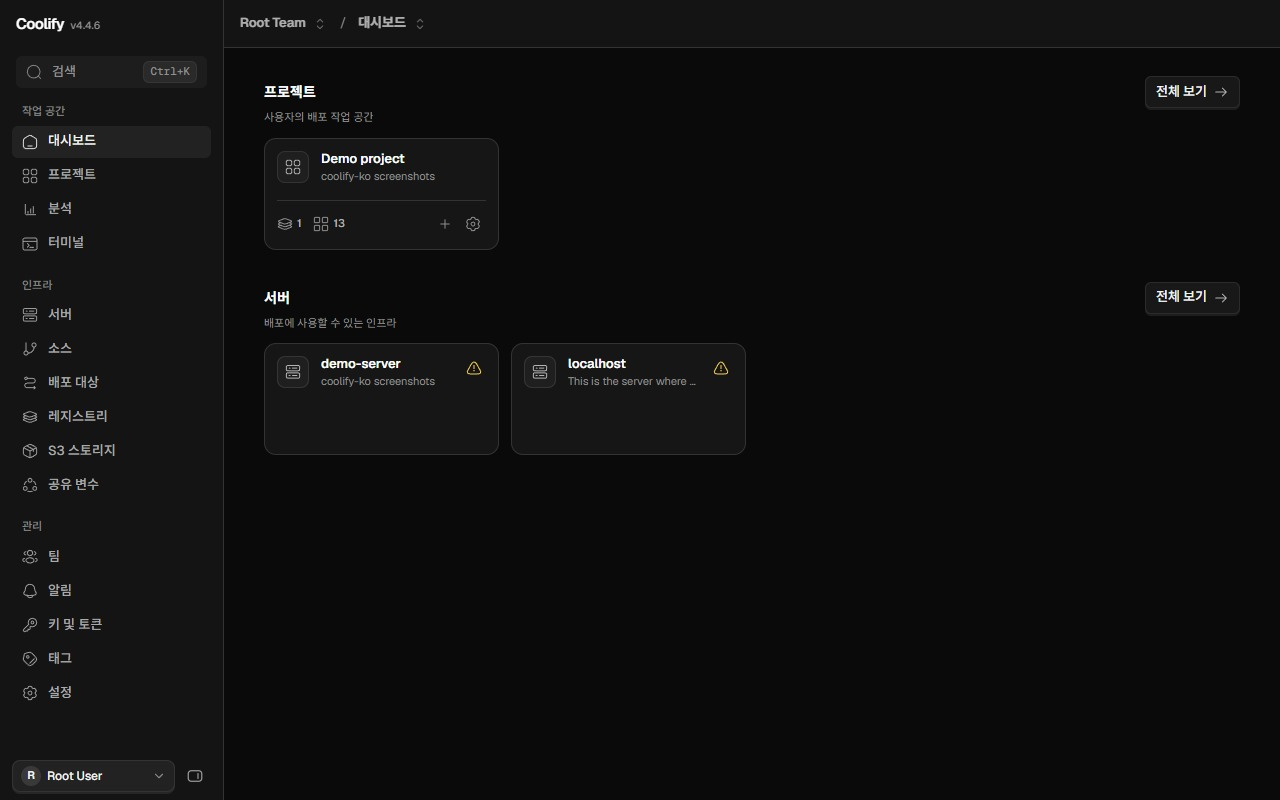
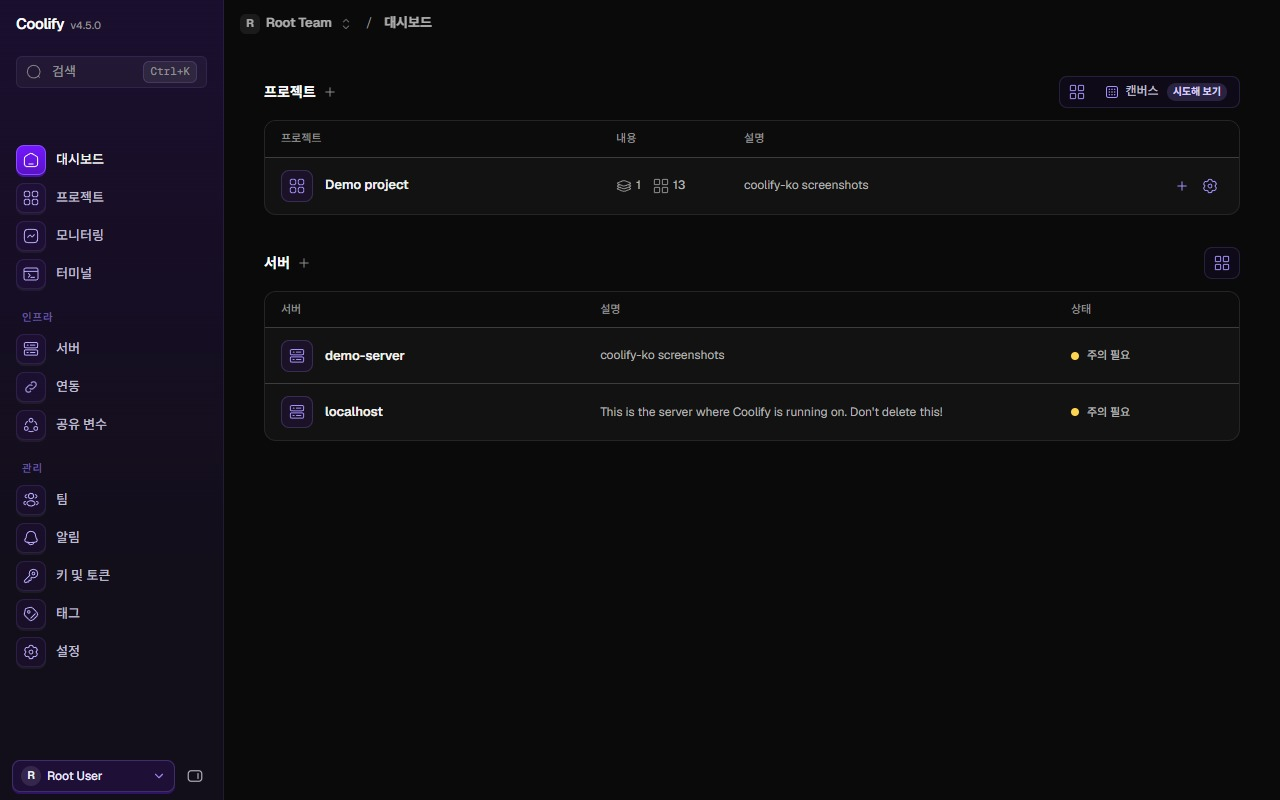
sync: 74a3987ef166

diff --git a/pipeline/src/sync/discord.ts b/pipeline/src/sync/discord.ts
@@ -1,24 +1,57 @@
 import { readFileSync } from 'node:fs';
 
+type Fetcher = (url: string, init?: RequestInit) => Promise<Response>;
+
 const WEBHOOK = /^https:\/\/(?:discord\.com|discordapp\.com)\/api\/webhooks\//;
+const TRIES = 2;
+
+/** 오류 이름·내용·원인 코드만 남기고 주소는 지운다. 이름만 남겨서는 원인을 몰랐다(2026-10-25 "알림 실패: TypeError") */
+function errorSummary(error: unknown): string {
+  if (!(error instanceof Error)) {
+    return '알 수 없음';
+  }
+  const code = (error.cause as { code?: unknown } | undefined)?.code;
+
+  return `${error.name} ${error.message.replace(/https?:\/\/\S+/g, '<주소>').slice(0, 120)}${typeof code === 'string' ? ` (${code})` : ''}`;
+}
 
 /**
  * Discord 웹훅으로 한 줄 알린다. 웹훅 주소는 파일(LoadCredential)에서 읽고 로그에 남기지 않는다.
- * 실패해도 던지지 않는다(알림 때문에 작업이 실패하지 않게). 멘션은 막는다
+ * 네트워크 오류·한도·서버 오류면 한 번 더 보낸다. 실패해도 던지지 않는다(알림 때문에 작업이 실패하지 않게). 멘션은 막는다
  */
-export async function postDiscord(webhookFile: string, content: string): Promise<void> {
+export async function postDiscord(webhookFile: string, content: string, { fetcher = fetch, retryDelayMs = 5_000 }: { readonly fetcher?: Fetcher; readonly retryDelayMs?: number } = {}): Promise<void> {
+  let url: string;
   try {
-    const url = readFileSync(webhookFile, 'utf8').trim();
-    if (!WEBHOOK.test(url)) {
-      console.log('알림 생략: 웹훅 주소 형식이 아닙니다.');
-
-      return;
-    }
-    const response = await fetch(url, { method: 'POST', headers: { 'content-type': 'application/json' }, body: JSON.stringify({ content: content.slice(0, 2000), allowed_mentions: { parse: [] } }), signal: AbortSignal.timeout(10_000) });
-    if (!response.ok) {
-      console.log(`알림 실패: HTTP ${String(response.status)}`);
-    }
+    url = readFileSync(webhookFile, 'utf8').trim();
   } catch (error: unknown) {
-    console.log(`알림 실패: ${error instanceof Error ? error.name : '알 수 없음'}`);
+    console.log(`알림 실패: ${errorSummary(error)}`);
+
+    return;
   }
+  if (!WEBHOOK.test(url)) {
+    console.log('알림 생략: 웹훅 주소 형식이 아닙니다.');
+
+    return;
+  }
+  const body = JSON.stringify({ content: content.slice(0, 2000), allowed_mentions: { parse: [] } });
+  let problem = '';
+  for (let attempt = 1; attempt <= TRIES; attempt++) {
+    if (attempt > 1) {
+      console.log(`알림 재시도: ${problem}`);
+      await new Promise((resolve) => setTimeout(resolve, retryDelayMs));
+    }
+    try {
+      const response = await fetcher(url, { method: 'POST', headers: { 'content-type': 'application/json' }, body, signal: AbortSignal.timeout(10_000) });
+      if (response.ok) {
+        return;
+      }
+      problem = `HTTP ${String(response.status)}`;
+      if (response.status !== 429 && response.status < 500) {
+        break;
+      }
+    } catch (error: unknown) {
+      problem = errorSummary(error);
+    }
+  }
+  console.log(`알림 실패: ${problem}`);
 }

diff --git a/pipeline/src/sync/discord.test.ts b/pipeline/src/sync/discord.test.ts
@@ -1,0 +1,67 @@
+import { mkdtempSync, writeFileSync } from 'node:fs';
+import { tmpdir } from 'node:os';
+import { join } from 'node:path';
+import { afterEach, describe, expect, it, vi } from 'vitest';
+import { postDiscord } from './discord.ts';
+
+const HOOK = 'https://discord.com/api/webhooks/123/secret-token';
+
+function webhookFile(): string {
+  const file = join(mkdtempSync(join(tmpdir(), 'discord-')), 'discord-webhook');
+  writeFileSync(file, `${HOOK}\n`);
+
+  return file;
+}
+
+function fetchFailed(code: string): TypeError {
+  return new TypeError('fetch failed', { cause: Object.assign(new Error(`connect ${code} discord.com:443 ${HOOK}`), { code }) });
+}
+
+function logs(): string[] {
+  const lines: string[] = [];
+  vi.spyOn(console, 'log').mockImplementation((line: unknown) => {
+    lines.push(String(line));
+  });
+
+  return lines;
+}
+
+afterEach(() => {
+  vi.restoreAllMocks();
+});
+
+describe('postDiscord', () => {
+  it('sends again once after a network error', async () => {
+    const lines = logs();
+    const fetcher = vi.fn<(url: string, init?: RequestInit) => Promise<Response>>().mockRejectedValueOnce(fetchFailed('ECONNRESET')).mockResolvedValueOnce(new Response(null, { status: 204 }));
+
+    await postDiscord(webhookFile(), '알림', { fetcher, retryDelayMs: 0 });
+
+    expect(fetcher).toHaveBeenCalledTimes(2);
+    expect(lines).toEqual(['알림 재시도: TypeError fetch failed (ECONNRESET)']);
+  });
+
+  it('says what failed and why, without the webhook address, when the second try fails too', async () => {
+    const lines = logs();
+    const fetcher = vi.fn<(url: string, init?: RequestInit) => Promise<Response>>().mockRejectedValue(fetchFailed('UND_ERR_CONNECT_TIMEOUT'));
+
+    await postDiscord(webhookFile(), '알림', { fetcher, retryDelayMs: 0 });
+
+    expect(fetcher).toHaveBeenCalledTimes(2);
+    expect(lines.at(-1)).toBe('알림 실패: TypeError fetch failed (UND_ERR_CONNECT_TIMEOUT)');
+    expect(lines.join('\n')).not.toContain('secret-token');
+  });
+
+  it('sends again after a rate limit or server error but not after a rejected request', async () => {
+    const lines = logs();
+    const busy = vi.fn<(url: string, init?: RequestInit) => Promise<Response>>().mockResolvedValueOnce(new Response(null, { status: 429 })).mockResolvedValueOnce(new Response(null, { status: 204 }));
+    const rejected = vi.fn<(url: string, init?: RequestInit) => Promise<Response>>().mockResolvedValue(new Response(null, { status: 400 }));
+
+    await postDiscord(webhookFile(), '알림', { fetcher: busy, retryDelayMs: 0 });
+    await postDiscord(webhookFile(), '알림', { fetcher: rejected, retryDelayMs: 0 });
+
+    expect(busy).toHaveBeenCalledTimes(2);
+    expect(rejected).toHaveBeenCalledTimes(1);
+    expect(lines).toEqual(['알림 재시도: HTTP 429', '알림 실패: HTTP 400']);
+  });
+});

diff --git a/pipeline/src/screenshots/untranslated.ts b/pipeline/src/screenshots/untranslated.ts
@@ -12,7 +12,12 @@ export interface UntranslatedGap {
 
 const BASELINE = 'untranslated.json';
 
-const norm = (text: string): string => text.replace(/\s+/g, ' ').trim();
+// 숫자만 다른 글("3 minutes ago"·"15 minutes ago")은 같은 글로 본다
+const shape = (text: string): string => text.replace(/\s+/g, ' ').trim().replace(/\d+/g, '#');
+
+// 날짜·시각(요일·달 이름·AM/PM과 숫자·구분 기호)만으로 된 글은 찍을 때마다 바뀌는 값이라 비교하지 않는다(2026-10-25 감사 로그 기록 시각)
+const DATE_WORDS = /\b(?:Mon|Tues?|Wed(?:nes)?|Thu(?:rs)?|Fri|Sat(?:ur)?|Sun)(?:day)?\b|\b(?:Jan(?:uary)?|Feb(?:ruary)?|Mar(?:ch)?|Apr(?:il)?|May|June?|July?|Aug(?:ust)?|Sep(?:t(?:ember)?)?|Oct(?:ober)?|Nov(?:ember)?|Dec(?:ember)?)\b|\b[AP]M\b|\bUTC\b/g;
+const onlyDate = (text: string): boolean => /\d/.test(text) && text.replace(DATE_WORDS, '').replace(/[\d\s,.:/+-]/g, '') === '';
 
 function parseGaps(value: unknown): UntranslatedGap[] | undefined {
   if (!Array.isArray(value)) {
@@ -43,9 +48,9 @@ export function newGaps(current: readonly UntranslatedGap[], previous: readonly 
   if (previous === undefined) {
     return [];
   }
-  const seen = new Set(previous.map((gap) => norm(gap.text)));
+  const seen = new Set(previous.map((gap) => shape(gap.text)));
 
-  return current.filter((gap) => !seen.has(norm(gap.text))).sort((a, b) => b.paths.length - a.paths.length || (a.text < b.text ? -1 : a.text > b.text ? 1 : 0));
+  return current.filter((gap) => !onlyDate(gap.text) && !seen.has(shape(gap.text))).sort((a, b) => b.paths.length - a.paths.length || (a.text < b.text ? -1 : a.text > b.text ? 1 : 0));
 }
 
 /**

diff --git a/pipeline/src/publish/source.ts b/pipeline/src/publish/source.ts
@@ -7,9 +7,10 @@ import { findForbiddenTrackedPaths, hasInternalName } from '../../../scripts/rep
 /**
  * 공개 소스 레포(Kim-Geonwoo/coolify-korean, 새 히스토리) 내보내기(5단계 공개 계획 P4, 사용자 결정 "공개용 레포를 새로 만들자").
  * 비공개 작업 레포의 한 커밋에서 정해 둔 경로만 꺼낸다(기본 거부). 집 서버 운영(ops)과 CI 설정(.github, 11-03 전 Actions 금지)은 내보내지 않는다.
+ * .github 안에서는 이슈 양식(ISSUE_TEMPLATE)만 내보낸다(2026-10-25 공개 소개 준비).
  * 임시 폴더에 먼저 풀어 내부 이름·금지 경로를 검사하고, 통과해야 공개 레포 작업 사본(.git은 남김)을 바꾼다
  */
-export const EXPORT_PATHS: readonly string[] = ['.dockerignore', '.gitattributes', '.gitignore', 'Dockerfile', 'LICENSE', 'NOTICE', 'README.md', 'codemod', 'docs', 'eslint.config.js', 'extension', 'i18n', 'overlay', 'package.json', 'pipeline', 'pnpm-lock.yaml', 'releases', 'reports', 'scripts', 'tools', 'tsconfig.json', 'vitest.config.ts'];
+export const EXPORT_PATHS: readonly string[] = ['.dockerignore', '.gitattributes', '.github/ISSUE_TEMPLATE', '.gitignore', 'Dockerfile', 'LICENSE', 'NOTICE', 'README.md', 'SECURITY.md', 'codemod', 'docs', 'eslint.config.js', 'extension', 'i18n', 'overlay', 'package.json', 'pipeline', 'pnpm-lock.yaml', 'releases', 'reports', 'scripts', 'tools', 'tsconfig.json', 'vitest.config.ts'];
 export const PRIVATE_PATHS: readonly string[] = ['.github', 'ops'];
 
 /** 내보낼지 정하지 않은 최상위 경로(새 경로가 생기면 시험이 결정을 요구한다) */

diff --git a/pipeline/src/publish/source.test.ts b/pipeline/src/publish/source.test.ts
@@ -75,6 +75,17 @@ describe('exportSource', () => {
     expect(readFileSync(join(to, 'pipeline', 'a.ts'), 'utf8')).toBe('export {};\n');
   });
 
+  // 2026-10-25 공개 소개 준비: 이슈 양식은 공개 레포에 있어야 하고, CI(.github/workflows)는 여전히 내보내지 않는다
+  it('exports the issue forms and the security policy but not the CI workflows', () => {
+    const { dir, commit } = repo({ 'SECURITY.md': '# 보안\n', '.github/ISSUE_TEMPLATE/translation.yml': 'name: 번역\n', '.github/workflows/ci.yml': 'on: push\n' });
+    const to = temp();
+    exportSource({ repo: dir, commit, to, internalNames: FAKE_NAMES });
+
+    expect(readFileSync(join(to, '.github', 'ISSUE_TEMPLATE', 'translation.yml'), 'utf8')).toBe('name: 번역\n');
+    expect(existsSync(join(to, 'SECURITY.md'))).toBe(true);
+    expect(existsSync(join(to, '.github', 'workflows'))).toBe(false);
+  });
+
   it('refuses an export that still carries an internal name and leaves the working copy alone', () => {
     const { dir, commit } = repo({ 'README.md': 'server acmebox-2\n' });
     const to = temp();

diff --git a/pipeline/src/sync/nightCli.ts b/pipeline/src/sync/nightCli.ts
@@ -254,7 +254,7 @@ async function screenshotsStage(tokenDir: string): Promise<void> {
   const report = readJson(reportPath) as { newUntranslated?: unknown; untranslatedSince?: unknown };
   const fresh = Array.isArray(report.newUntranslated) ? report.newUntranslated.flatMap((gap: unknown) => (typeof (gap as { text?: unknown } | null)?.text === 'string' ? [(gap as { text: string }).text] : [])) : [];
   if (fresh.length > 0) {
-    console.log(`스크린샷: 지난 찍기에 없던 표식 없는 영어 ${String(fresh.length)}개`);
+    console.log(`스크린샷: 지난 찍기에 없던 표식 없는 영어 ${String(fresh.length)}개: ${fresh.slice(0, 5).join(' · ')}`);
     await postDiscord(credential('discord-webhook'), discordMessage({ type: 'untranslated', version, ...(typeof report.untranslatedSince === 'string' ? { previousVersion: report.untranslatedSince } : {}), count: fresh.length, examples: fresh }));
   }
 }

diff --git a/pipeline/src/extension/e2e.ts b/pipeline/src/extension/e2e.ts
@@ -8,6 +8,7 @@ import { looksUntranslated } from '../screenshots/gaps.ts';
 import { DEMO_SEED_PHP } from '../screenshots/seed.ts';
 import { START_PATHS } from '../smoke.ts';
 import { buildTestEnv } from '../testInstance.ts';
+import { imageRef, loadState } from '../sync/state.ts';
 import { pack } from './pack.ts';
 
 /**
@@ -21,7 +22,8 @@ const instanceDir = join(work, 'test-instance');
 const PROJECT = 'coolify-ko-ext';
 const PORT = 18090;
 export const ORIGIN = `http://127.0.0.1:${String(PORT)}`;
-const IMAGE = 'coollabsio/coolify:4.4.6';
+// 확장 사전이 따르는 상류 판(i18n/state.json, 다이제스트 고정). 4.4.6에 박아 둬 4.5.0 스토어 사진도 옛 화면이었다(2026-10-25)
+const IMAGE = imageRef(loadState(join(root, 'i18n', 'state.json')));
 const EMAIL = 'e2e@coolify-ko.invalid';
 const POLL_WAIT_MS = 12_000;
 const HANGUL = /[가-힣]/;

diff --git a/pipeline/src/screenshots/untranslated.test.ts b/pipeline/src/screenshots/untranslated.test.ts
@@ -18,6 +18,14 @@ describe('newGaps', () => {
 
     expect(newGaps(current, previous)).toEqual([gap('Monitoring', '/', '/servers', '/projects'), gap('Integrations', '/')]);
   });
+
+  // 2026-10-25: 감사 로그의 기록 시각(예시 리소스를 만든 때)이 찍을 때마다 바뀌어 새 영어로 알렸다
+  it('skips texts made only of a date or time, and treats texts that differ only in numbers as the same', () => {
+    const previous = [gap('3 minutes ago', '/'), gap('Deployed 2 apps', '/')];
+    const current = [gap('Sat, Oct 24, 2026 7:07 PM', '/team/audit-log'), gap('Monday, December 7, 2026', '/'), gap('2026-10-24 19:07:31', '/'), gap('15 minutes ago', '/'), gap('Deployed 2 servers', '/')];
+
+    expect(newGaps(current, previous)).toEqual([gap('Deployed 2 servers', '/')]);
+  });
 });
 
 describe('recordGaps', () => {

diff --git a/SECURITY.md b/SECURITY.md
@@ -1,0 +1,41 @@
+# 보안 정책
+
+coolify-ko는 서버의 Coolify 이미지를 바꿔 끼우는 도구라서 보안 제보를 가장 중요하게 다룹니다.
+
+## 지원 범위
+
+최신 판만 고칩니다.
+
+| 대상 | 지원하는 판 |
+|---|---|
+| 컨테이너 이미지 `ghcr.io/kim-geonwoo/coolify-ko` | 지금 따라가는 Coolify 판([versions.json](https://coolify-ko.geonwoo.dev/versions.json)의 `v4`) |
+| 설치 스크립트 `coolify-ko.sh` | 사이트에 올라간 최신본 |
+| 브라우저 확장(Chrome·Firefox) | 최신 판 |
+| 미러 사이트 `coolify-ko.geonwoo.dev`(버전 정보·번역 사전) | 지금 사이트 |
+
+## 제보 방법
+
+공개 이슈에 올리지 말고 **kgw@geonwoo.dev**로 메일을 보내 주세요. 아래를 담아 주시면 빨리 확인할 수 있습니다.
+
+- 무엇이 문제인지
+- 재현 순서
+- 예상되는 영향
+- 확인한 판(Coolify 판, 확장 판)
+
+확인하는 대로 답장드립니다. 고친 판을 낸 뒤에 제보자와 공개 시점을 정합니다.
+
+## 이런 문제를 알려 주세요
+
+- 서명(cosign)이나 해시 검증을 우회해 다른 이미지·스크립트가 설치되는 문제
+- 설치·되돌리기 스크립트가 표시된 전용 구간 밖을 바꾸거나 권한을 넓히는 문제
+- 미러의 버전 정보나 번역 사전이 변조될 수 있는 문제
+- 번역 문구에 든 HTML·스크립트가 화면에서 실행되는 문제
+- 확장이 사용자가 지정한 주소 밖에서 동작하거나 화면 글·데이터를 밖으로 보내는 문제
+
+## Coolify 자체 취약점
+
+영어 공식판에서도 생기는 문제는 [Coolify 보안 정책](https://github.com/coollabsio/coolify/blob/main/SECURITY.md)대로 Coolify에 알려 주세요. coolify-ko는 공식 이미지 위에 번역만 더하므로, 상류의 보안 수정은 새 판이 나오는 대로 따라갑니다. 늦어질 때의 대비책은 [동작 원리와 보안](docs/how-it-works.md#보안-모델)에 있습니다.
+
+## English
+
+Please do not open a public issue for security problems. Email **kgw@geonwoo.dev** with what is wrong, how to reproduce it, the impact, and the versions you checked. Only the latest release is supported. Vulnerabilities that also affect the official English build belong to [Coolify's security policy](https://github.com/coollabsio/coolify/blob/main/SECURITY.md).

diff --git a/docs/how-it-works.md b/docs/how-it-works.md
@@ -26,7 +26,7 @@ Coolify가 공식적으로 제공하는 확장 포인트(Hook) 두 곳만 활용
   - 배포 전 이미지 레이어 목록을 검사하여, 허용된 경로 외의 파일 변경, 심볼릭 링크, 파일 삭제 표시가 발견되면 배포를 즉시 차단합니다.
 - 배포 절차
   - 자동화 빌드 후 관리자가 수동으로 검토하고 승인한 경우에만 배포합니다.
-  - 이미지에는 cosign 디지털 서명과 빌드 출처 증명(Attestation)을 함께 첨부합니다. 서명 방식(키 기반 권장: 키리스 방식은 서명자의 이메일 주소가 공개 투명성 로그에 영구히 남음)은 공개 배포 전 확정합니다.
+  - 이미지에는 cosign 디지털 서명과 빌드 출처 증명(Attestation)을 함께 첨부합니다. 서명은 키 기반 방식입니다(키리스 방식은 서명자의 이메일 주소가 공개 투명성 로그에 영구히 남음). 공개 키는 [releases/cosign.pub](../releases/cosign.pub)에 있습니다.
   - 확인 명령은 [설치 문서의 이미지 서명 확인](install.md#이미지-서명-확인)에 있습니다.
   - 빌드 서버 환경에는 배포 토큰이나 서명 키를 영구 보관하지 않아 침해 사고를 예방합니다.
   - 미러는 6시간마다 갱신하기 전에, 발행한 모든 버전 태그가 [발행 기록](../releases/published.json)의 다이제스트를 그대로 가리키는지 레지스트리에서 확인합니다. 다르거나 태그가 없으면 미러 갱신을 멈추고 관리자에게 즉시 알립니다.

diff --git a/README.md b/README.md
@@ -7,6 +7,7 @@
 **자체 호스팅 Coolify를 한국어로.**<br>
 공식 이미지 위에 번역만 더한 비공식 한국어 지원 프로젝트입니다.
 
+[![따라가는 Coolify 판](https://img.shields.io/badge/dynamic/json?url=https%3A%2F%2Fcoolify-ko.geonwoo.dev%2Fversions.json&query=%24.coolify.v4.version&label=Coolify&prefix=v&color=6B16ED)](https://github.com/coollabsio/coolify/releases)
 [![Chrome 웹 스토어](https://img.shields.io/chrome-web-store/v/hjfmiecbkiimkbnhoedjicaccmdaihni?label=Chrome&logo=googlechrome&logoColor=white)](https://chromewebstore.google.com/detail/coolify-%ED%95%9C%EA%B5%AD%EC%96%B4-%EB%B9%84%EA%B3%B5%EC%8B%9D/hjfmiecbkiimkbnhoedjicaccmdaihni)
 [![Firefox](https://img.shields.io/badge/Firefox-.xpi-FF7139?logo=firefoxbrowser&logoColor=white)](https://coolify-ko.geonwoo.dev)
 [![Image](https://img.shields.io/badge/ghcr.io-coolify--ko-2496ED?logo=docker&logoColor=white)](https://coolify-ko.geonwoo.dev)
@@ -98,6 +99,8 @@ sudo bash coolify-ko.sh preinstall
 ## 문의
 
 개발자 문의: kgw@geonwoo.dev
+
+번역이 어색한 곳은 [번역 제보](https://github.com/Kim-Geonwoo/coolify-korean/issues/new?template=translation.yml)로, 보안 문제는 공개 이슈 대신 [보안 정책](SECURITY.md)대로 알려 주세요.
 
 Developer contact: kgw@geonwoo.dev
 
